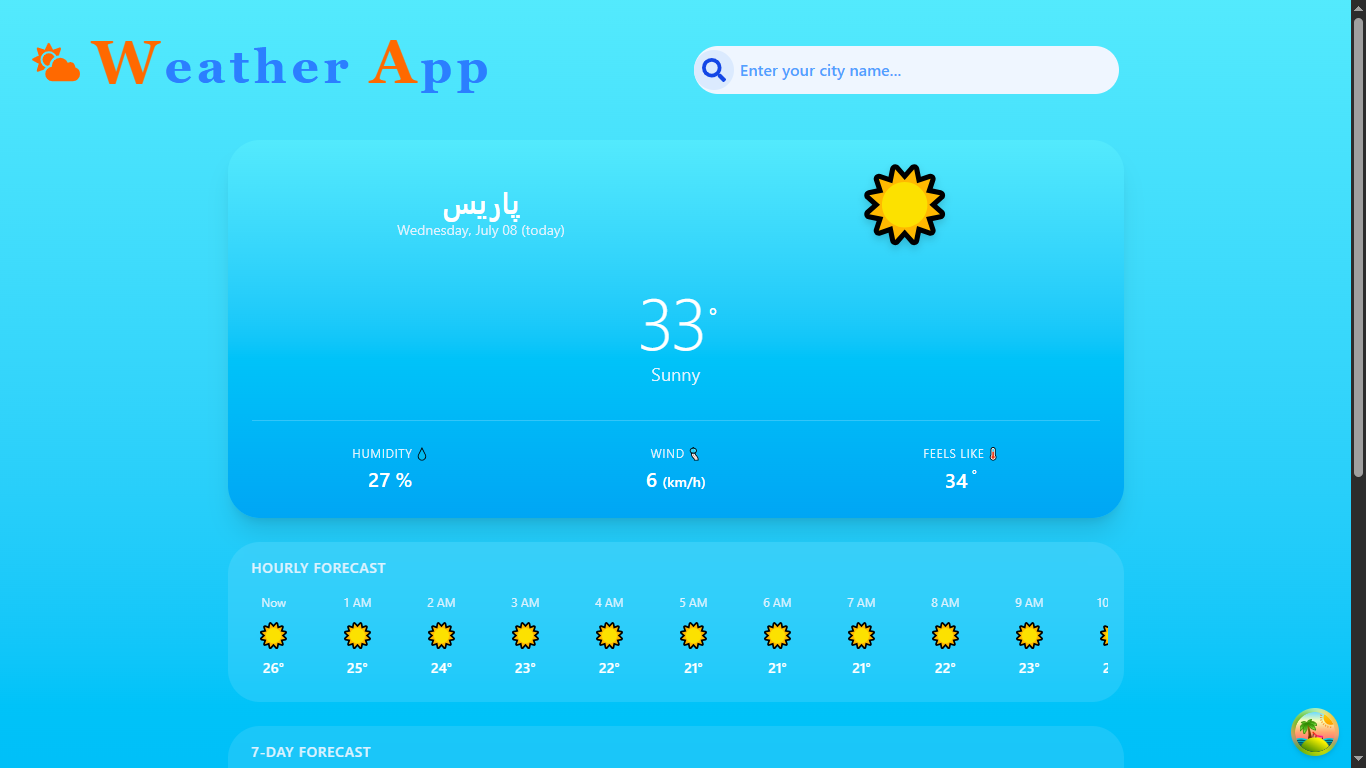
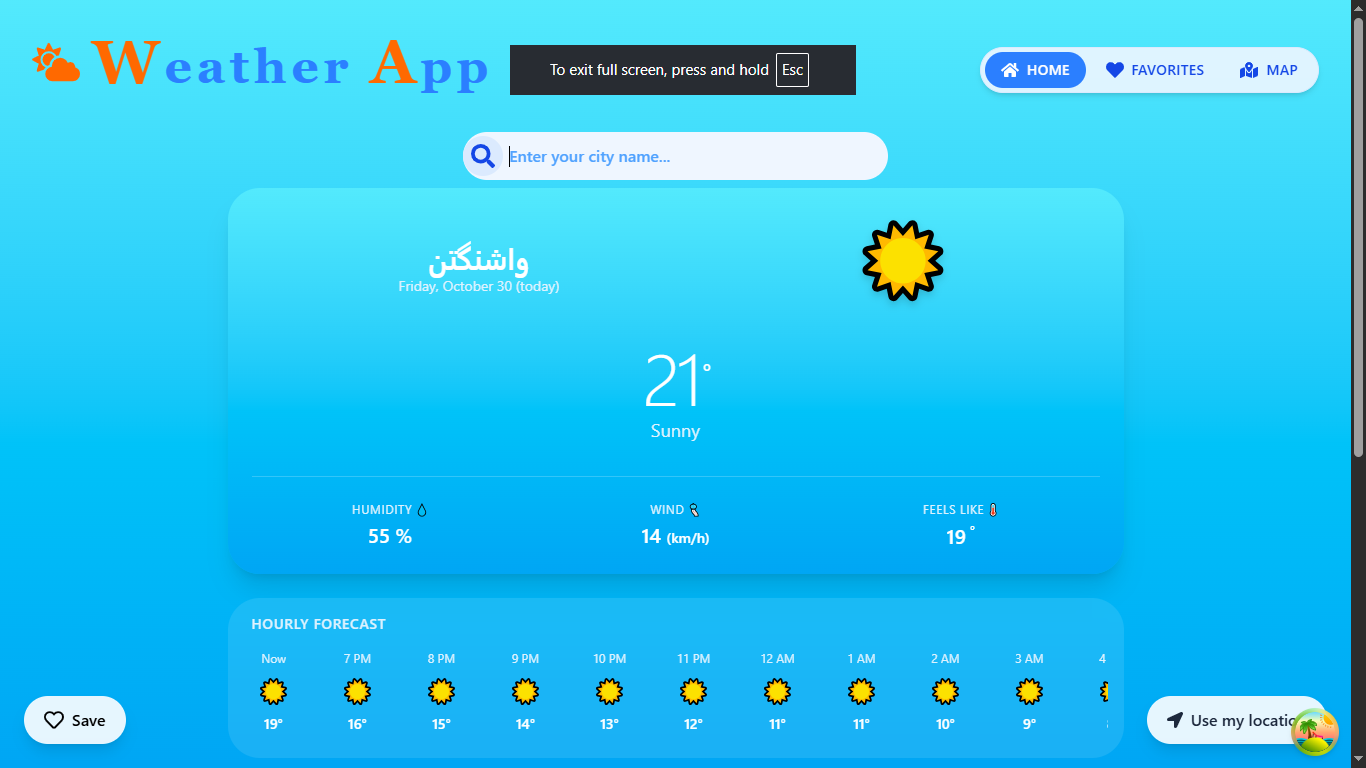
docs: update README with favorites, map, navigation and technical highlights

diff --git a/README.md b/README.md
@@ -1,23 +1,8 @@
 # 🌤 Weather App
 
-A sleek, responsive weather application built with React and Tailwind CSS. It provides real-time weather data, hourly updates, and a 7-day forecast, with a dynamic UI that changes based on the time of day.
+A sleek, responsive weather app built with React and Tailwind CSS. Search any city or use your location, check hourly and 7-day forecasts, save favorite cities, and explore the weather on an interactive map. The UI changes with the time of day at the selected place.
 
-## 🚀 Features
 
-- 🔍 **City Search:** Search for weather conditions in any city worldwide.
-- 🌓 **Dynamic Day/Night UI:** Background gradients and weather icons adapt to the time of day.
-- 📅 **7-Day Forecast:** View the minimum and maximum temperatures for the upcoming week.
-- ⏱ **Hourly Forecast:** A smooth, horizontally scrollable view of hourly weather updates.
-- 📱 **Fully Responsive:** Optimized for mobile, tablet, and desktop screens.
-- 🛡 **Error Handling:** Custom loading, error, and empty states.
-
-## 🛠 Tech Stack
-
-- **Framework:** React
-- **Styling:** Tailwind CSS
-- **API:** [Open-Meteo](https://open-meteo.com/) (free, no API key required)
-- **Icons:** React Icons (`react-icons/fa`)
-- **Build Tool:** Vite
 
 ## 📸 Screenshots
 
@@ -27,11 +12,50 @@ A sleek, responsive weather application built with React and Tailwind CSS. It pr
 | :---: | :---: |
 | ![Desktop Day](./screenshots/DesktopDayMode.png) | ![Desktop Night](./screenshots/DesktopNightMode.png) |
 
+### Favorites and Map
+
+| Favorites ❤ | Map 🗺 |
+| :---: | :---: |
+| ![Favorites](./screenshots/favorites.png) | ![Map](./screenshots/map.png) |
+
 ### Mobile
 
 | Night Mode 🌙 | Day Mode ☀ |
 | :---: | :---: |
-| ![Mobile Night](./screenshots/MobileNightMode.PNG) | ![Mobile Day](./screenshots/MobileDayMode.PNG) |
+| ![Mobile Night](./screenshots/MobileNightMode.png) | ![Mobile Day](./screenshots/MobileDayMode.png) |
+
+## 🚀 Features
+
+- 🔍 **City search:** Find the weather for any city worldwide.
+- 📍 **My location:** One tap to see the weather where you are, with the city name.
+- 🌓 **Dynamic day/night UI:** Backgrounds and icons follow the local time of the selected place, not your clock.
+- ⏱ **Hourly forecast:** A smooth, horizontally scrollable view.
+- 📅 **7-day forecast:** Minimum and maximum temperatures for the week.
+- ❤ **Favorite cities:** Save places (stored in `localStorage`) and see them on a dedicated page as live weather cards. Click a card to open the full forecast.
+- 🗺 **Interactive map:** Click anywhere to see its current weather. Your favorites appear as weather markers with a tooltip.
+- 🧭 **Responsive navigation:** A bottom tab bar on phones and a top bar on desktop. The search bar and location button stay available on every page.
+- 🛡 **Robust error handling:** Loading skeletons, error messages with a retry button, and an error boundary so one crash never blanks the app.
+
+## 🛠 Tech Stack
+
+- **Framework:** React with Vite
+- **Styling:** Tailwind CSS
+- **Routing:** React Router
+- **Data fetching and caching:** TanStack Query (React Query)
+- **Map:** Leaflet and React Leaflet
+- **Error handling:** react-error-boundary
+- **Icons:** React Icons
+- **APIs (no API keys needed):**
+  - [Open-Meteo](https://open-meteo.com/) for forecasts
+  - [Nominatim (OpenStreetMap)](https://nominatim.org/) for city search and reverse geocoding
+
+## 💡 Technical Highlights
+
+- **The URL is the source of truth.** Opening a favorite or clicking the map puts the coordinates in the URL (`?lat=…&lon=…`), so selections survive a refresh and links can be shared.
+- **One batched request for all favorites.** Open-Meteo accepts several locations at once, so the favorites page and map markers load with a single call that React Query caches.
+- **Search and location persist across pages.** A shared layout owns the search state, so the search bar and the location button work from any page.
+- **Timezone-correct theming.** Day and night come from the API's `is_day` value for the selected place, so searching Tokyo at your noon still shows Tokyo's night.
+- **Defensive by default.** URL parameters are validated, empty search results throw a clear error, and a failed city-name lookup never blocks the weather.
 
 ## 🏃♂ Getting Started
 
@@ -46,14 +70,15 @@ Open [http://localhost:5173](http://localhost:5173) in your browser. No API key 
 
 ## 🌟 Possible Improvements
 
-- [ ] **Geolocation:** Fetch weather for the user's current location.
-- [ ] **Favorites:** Save multiple cities with `localStorage`.
-- [ ] **Unit Toggle:** Switch between Celsius and Fahrenheit.
+- [ ] **Unit toggle:** Switch between Celsius and Fahrenheit.
 - [ ] **Charts:** Visualize temperature trends with Recharts.
+- [ ] **Search on the map page:** Move the map to the searched city.
+- [ ] **Weather layers:** Add rain radar to the map.
 
 ## 🙏 Acknowledgments
 
 - [Open-Meteo](https://open-meteo.com/) for the free weather API.
+- [OpenStreetMap](https://www.openstreetmap.org/copyright) contributors, [Nominatim](https://nominatim.org/) and [Leaflet](https://leafletjs.com/) for the map and geocoding.
 
 ---
 
